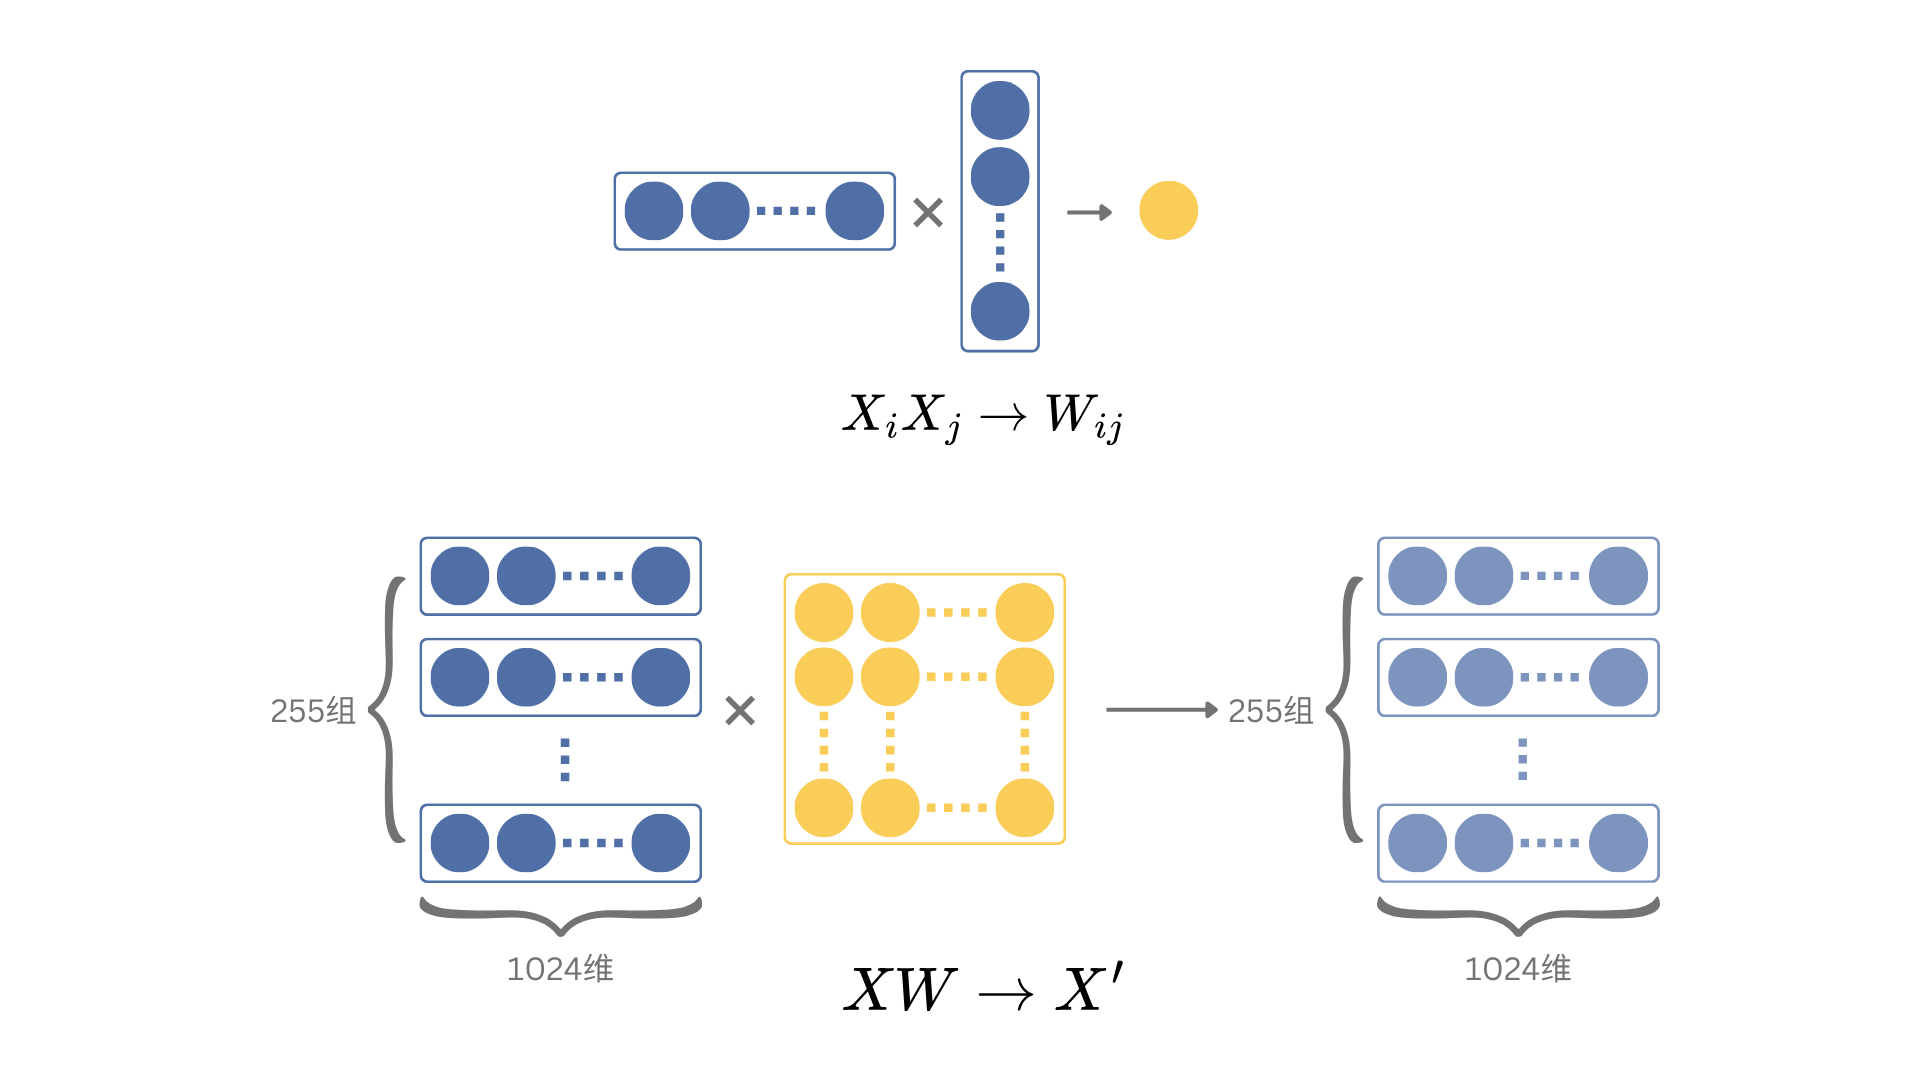
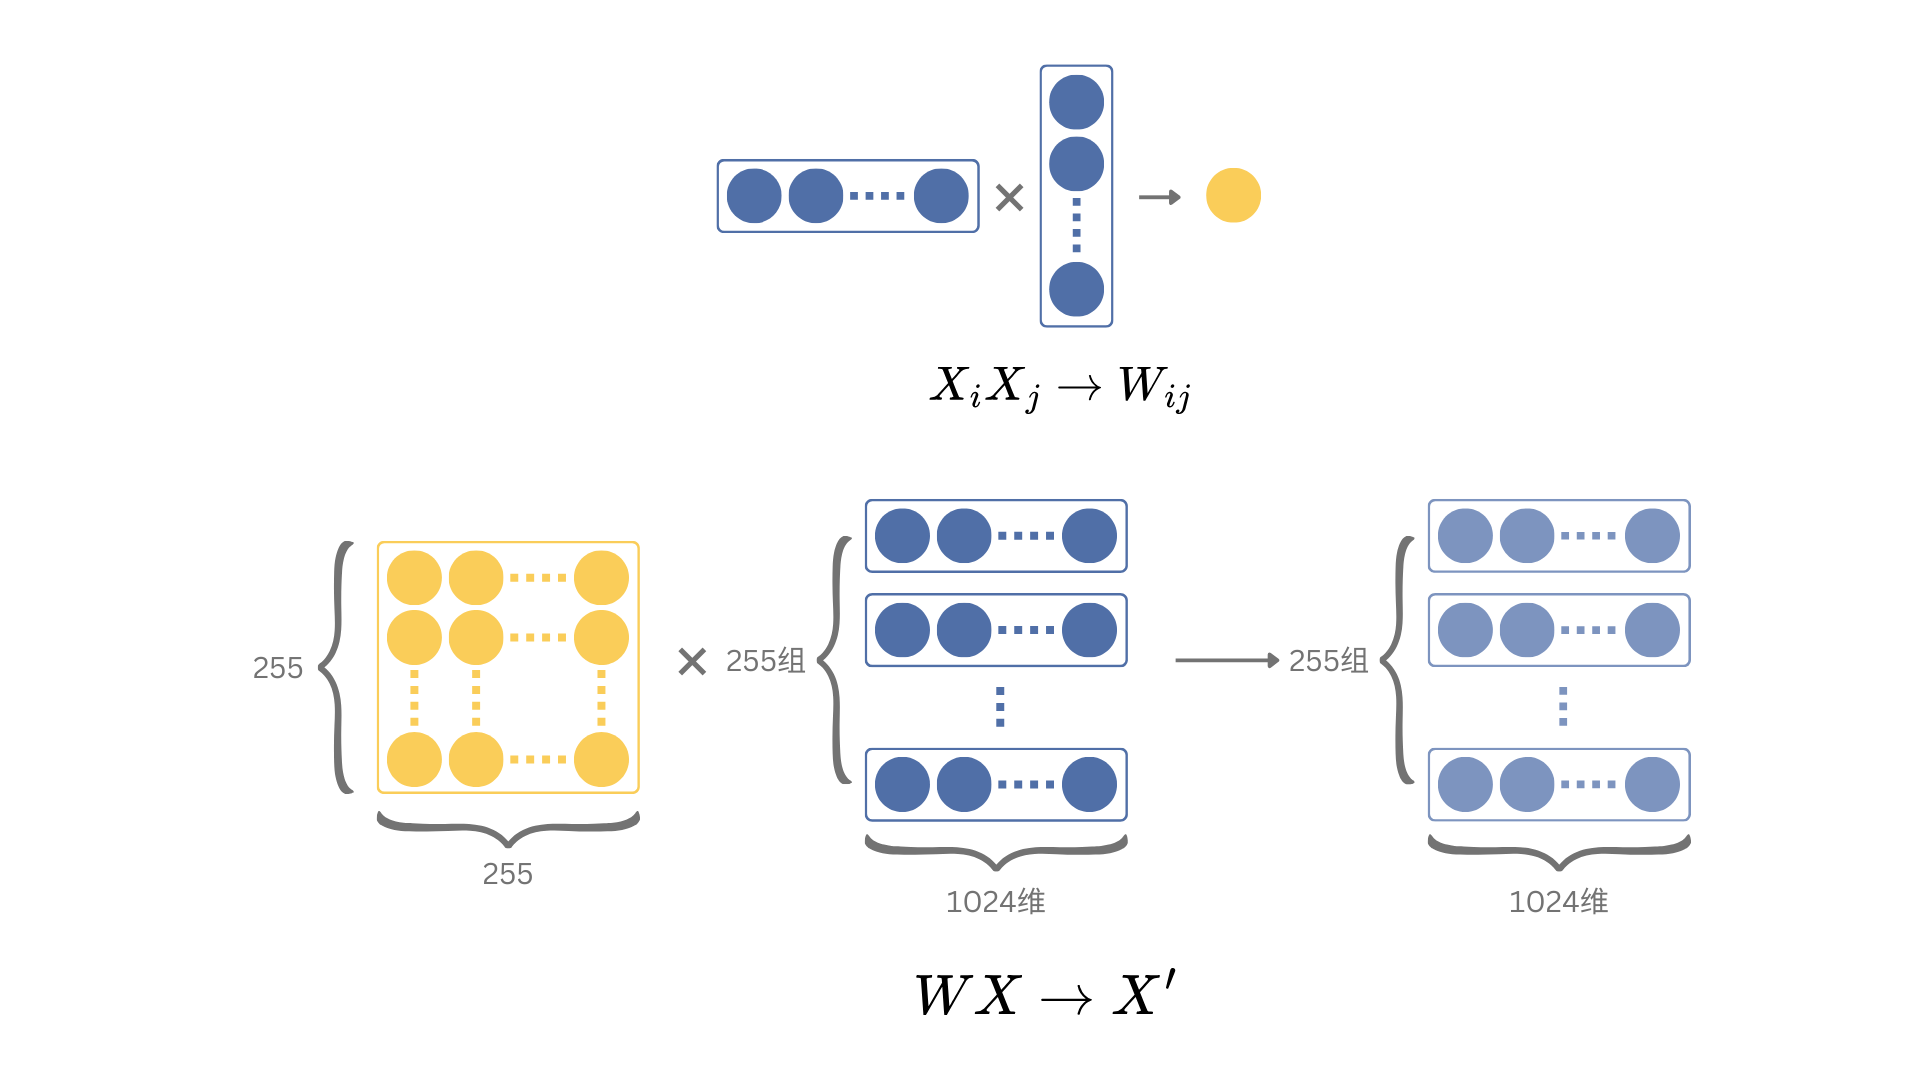
GITBOOK-8: No subject

diff --git a/book/2.-kai-shi-xing-dong/2.7-zhu-yi-li-ji-zhi.md b/book/2.-kai-shi-xing-dong/2.7-zhu-yi-li-ji-zhi.md
@@ -14,7 +14,7 @@
 
 如果进一步细化这件事，我们会发现里面包含了两个关键操作。
 
-第一是把其它字与当前字关联起来，从而缩窄当前字的含义范围。这一步往往要求我们注意某些真正重要的字，而不必在意其它无关紧要的字。比如，对于“只要你向着阳光走，影子就会躲在后面”这句话，对“光”的含义影响最大的字显然是“阳”和“影”。因为假设盖住“光”字把这句话变成一个完形填空，看到“阳”和“影”大概就能明白需要填什么。这种寻找重点字的过程，被称为“注意力机制”。注意力机制是大模型基础架构中最有含金量的部分，我们终于慢慢进入了AI的核心。
+第一是把其它字与当前字关联起来，从而缩窄当前字的含义范围。这一步往往要求我们注意某些真正重要的字，而不必在意其它无关紧要的字。比如，对于“只要你向着阳光走，影子就会躲在后面”这句话，对“光”的含义影响最大的字显然是“阳”和“影”。因为假设盖住“光”字把这句话变成一个完形填空，看到“阳”和“影”大概就能明白需要填什么。这种寻找重点字的过程，被称为“注意力机制”。这是大模型基础架构中最有含金量的部分，可以说是AI大脑的核心。
 
 第二是参考注意到的其它字，把当前字的1024维向量移动到合适的位置，即改变其内涵。
 
@@ -32,11 +32,11 @@
 
 先重新概括一下我们的问题。假设我们有255个字组成的输入数据，每个字用1024维向量表示。我们希望通过某种类似于注意力的机制，让每个字的1024维向量融入其它字的信息，然后以新的255个1024维向量作为输入，进入上面讨论过的第二步，也就是图2.4中的操作。
 
-这个问题其实仍然有些抽象，我们可以具体逐字分析一下具体的任务。
+这个问题其实仍然有些抽象，我们可以逐字分析一下具体的任务。
 
 首先，把其它字的信息融入当前字的向量是什么意思？说白了，信息只隐含在向量里，所以我们应该是把其它字的向量融合到当前字的向量里面。但是怎么融合？最简单的方式仍然是加权求和。把其它字的向量乘上某个权重，然后叠加到当前字的向量中。
 
-这一操作也略有迷惑性，你或许会认为，把其他字叠加到当前字难道不会混淆信息吗？就好像把255个字写在一个格子里，谁还能看得出来这是什么字。但不要忽略高维空间的性质，一个字蕴藏的含义可能压根没有1024种，在特定的上下文中，含义则进一步收缩，1024维向量其实包含了许多冗余，因此不必担心信息放不下的问题。
+这一操作也略有迷惑性，你或许会认为，把其他字叠加到当前字难道不会混淆信息吗？就好像把255个字写在一个格子里，谁还能看得出来这是什么字。但不要忽略高维空间的性质，一个字蕴藏的含义可能压根没有1024种，在特定的上下文中，含义则进一步收缩，1024维向量其实包含了许多冗余，稀疏的信息并不能填满所有维度，因此不必担心信息放不下的问题。
 
 然而，注意力体现在哪里呢？显然它只能体现在权重上。如果恰好让重要的字权重高，不重要的字权重低，那的确是个好方案。考虑到刚刚介绍的知识，是不是可以用一个255×255的权重矩阵来操作向量呢？毕竟，模型训练的过程会自动学习到如何给每个字分配权重。
 
@@ -44,10 +44,32 @@
 
 怎样才能找到一个与输入长度无关的权重，而且能调控注意力呢？
 
-我想到一个线索。大家或许在数学课上学到过一个公式叫余弦相似度，用来衡量两个向量之间的相似程度。有没有发现，我们所追求的注意力，是不是可以看作某种意义上的相似度呢？这样的话，如果直接计算向量和向量之间的余弦相似度，然后用这个值作为权重，把其它向量叠加到当前向量中，是不是就摆脱了与长度相关的那个权重矩阵？我们用下图详细说明这个过程。
+我想到一个线索。大家或许在数学课上学到过一个公式叫余弦相似度，用来衡量两个向量之间的相似程度。有没有发现，我们所追求的注意力，是否也可以当作某种意义上的相似度呢？这样的话，如果直接计算向量和向量之间的余弦相似度，然后用这个值作为权重，把其它向量叠加到当前向量中，是不是就摆脱了与长度相关的那个权重矩阵？我们用下图详细说明这个过程。
 
-<figure><img src="../.gitbook/assets/naive_attention.png" alt=""><figcaption></figcaption></figure>
+<figure><img src="../.gitbook/assets/naive_attention.png" alt=""><figcaption><p>图2.5 用余弦相似度实现注意力机制</p></figcaption></figure>
 
+图中，第一行展示了如何求两个向量的余弦相似度，相似度的值用黄色圆圈表示。255个输入向量两两之间计算相似度后得到一个255×255的权重矩阵W，矩阵中的每个元素Wij表示第i个向量与第j个向量的相似度。第二行，用W左乘输入向量组成的输入矩阵X。学过矩阵乘法的应该知道，左侧矩阵的行数需要和右侧矩阵的列数一致，计算过程将合并这两个维度。在结果中，行数与左侧矩阵一致，列数与右侧矩阵一致。图2.5可以看出，结果恰好仍然是255行1024列，与X相同。如果细究计算的过程，可以发现，新的向量其实是根据权重矩阵对旧向量的加权求和。我们不打算在这里列出公式，但读者可以自己尝试拆分整个计算过程。
 
+{% hint style="info" %}
+图2.5中的权重矩阵W和图2.4中的权重矩阵不是一回事。由于神经网络中的所有参数基本上都是以矩阵的形式存在，而它们的作用又可以解释为加权，所以它们几乎都被叫做权重矩阵。但读者应分清楚每个矩阵各自是在哪个环节起作用的，避免混为一谈。
+{% endhint %}
 
-为什么需要两步，第一步不是包含了第二步吗？第二步只在向量内部做变换，而且参数是共用的。但第一步在向量之间做变换。
+到这里是否就大功告成呢？进度条告诉你事情没这么简单。
+
+上述操作有一个反常的现象，不知你有没有发现，就是整个过程不存在可训练的参数。这就意味着我们没法通过训练让模型学会更好地寻找注意力。注意力本来是我们希望提供给输入的额外信息，然而以上的计算过程完全依赖于原始输入向量，并没有任何额外信息。如果你熟悉线性代数，稍微演算一下，就会发现新的向量其实和原向量完全线性相关，只差了一个倍数。
+
+所以，搞了半天我们在自娱自乐，其实没什么用？但不然。注意力机制的架构的确应当这样设计，只不过还缺一点改进。
+
+既然没有参数，我们可以想办法添加参数。在当前这个架构下，我们保留权重矩阵的形式，但改进一下权重矩阵的计算过程。不直接用输入向量的相似度，而是引入额外的参数，让参数影响相似度的结果。具体怎么做呢？其实还是老一套，再拿一个矩阵对输入做个变换呗。其实看多了读者就会发现，神经网络本质上就是矩阵乘法外面套一个非线性激活函数。只不过乘法的位置可以有各种调整的空间，从而形成了各式各样的模型结构。
+
+对于目前的情况，我们完全可以像图2.4那样，用一个方阵把每个1024维向量变换为另一个新的1024维向量，然后再做图2.5的操作。这个方阵就是引入的额外参数，通过训练，应该可以让模型学会如何更好地寻找注意力。下图是对图2.5版本的改进。
+
+<figure><img src="../.gitbook/assets/simple_attention.png" alt=""><figcaption><p>图2.6 可训练的注意力机制</p></figcaption></figure>
+
+可以看到，在最前面增加了一行，使用一个1024×1024的矩阵对输入向量做变换，得到新的1024维向量，继续后面的操作。整个过程中，输入向量从X变成X'，最终成为X''。
+
+至此，注意力机制总算到了一个勉强能用的地步。之所以说勉强能用，是因为此处的M矩阵对向量的改动有限，并不能完全利用输入的所有信息，后两行的操作仍然存在改进的空间。不过别担心，下一节我们就会看到注意力机制的终极版本，并揭开transformer的神秘面纱。
+
+{% hint style="info" %}
+Transformer是现代大语言模型的基石，它是一个精心设计的神经网络结构，由注意力机制及其它网络层组成。从注意力机制，到transformer，再到今天的大语言模型，AI研究者们趟出了一条通往AGI（Artificial General Intelligence，通用人工智能）的道路，曙光依稀可见。
+{% endhint %}

diff --git a/book/2.-kai-shi-xing-dong/2.8-transformer.md b/book/2.-kai-shi-xing-dong/2.8-transformer.md
@@ -1,0 +1,5 @@
+# 2.8 Transformer
+
+{% hint style="info" %}
+有趣的是，transformer始终没有一个合适的中文翻译。“变换器”、“变压器”感觉都不是太对味。因此，文中会直接使用这个单词的英文原文。transformer是动词transform（变换）的名词形式，可以理解为一种可以对数据做变换的装置。
+{% endhint %}

diff --git a/book/SUMMARY.md b/book/SUMMARY.md
@@ -14,4 +14,5 @@
   * [2.5 高维语义空间](2.-kai-shi-xing-dong/2.5-gao-wei-yu-yi-kong-jian.md)
   * [2.6 序列的难题](2.-kai-shi-xing-dong/2.6-xu-lie-de-nan-ti.md)
   * [2.7 注意力机制](2.-kai-shi-xing-dong/2.7-zhu-yi-li-ji-zhi.md)
+  * [2.8 Transformer](2.-kai-shi-xing-dong/2.8-transformer.md)
 * [3. 新的起点](3.-xin-de-qi-dian.md)
